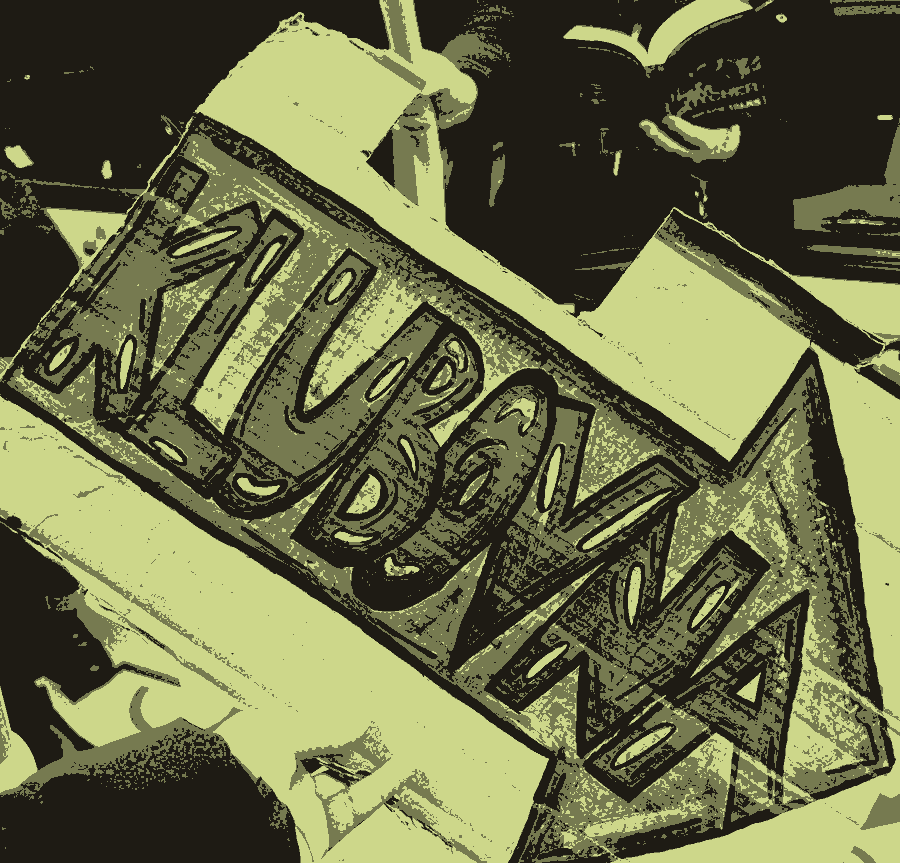
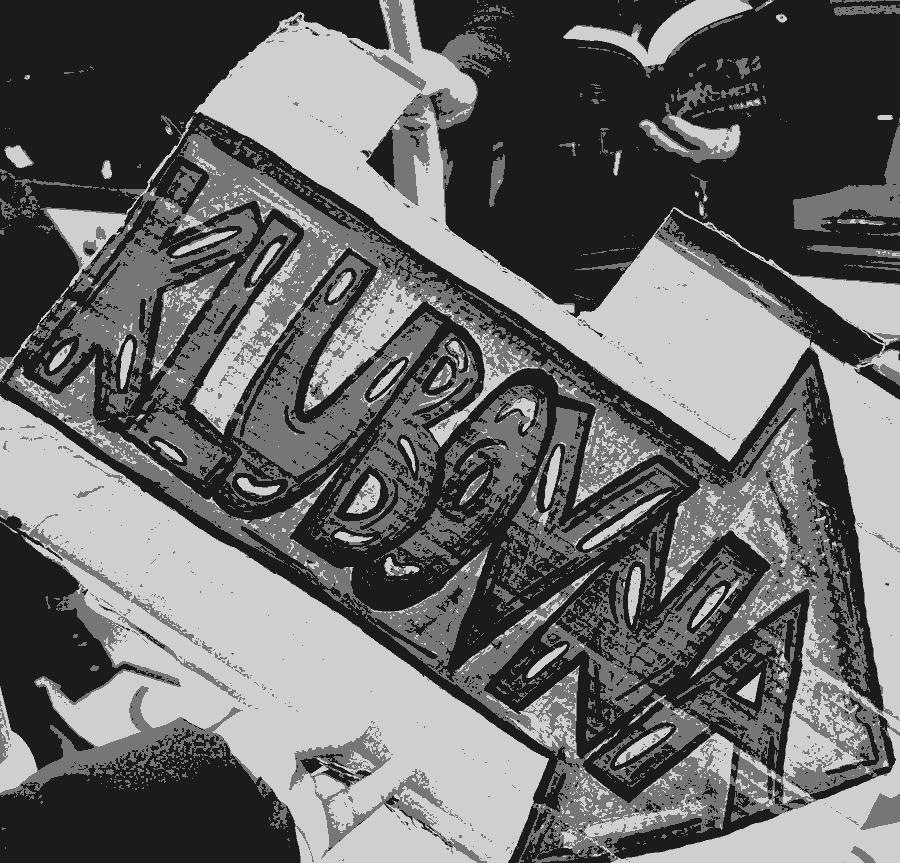
Take the colour out of the page
Decided after the friends round: black and white, so the colour that
arrives belongs to the people and the work. Every actor is being given a
colour of their own and the production photographs are being shot in
colour for end of September; a saturated green ground with a cherry
accent would have been competing with fifteen hues nobody controls.

--lime, --olive, --brick and --brick-deep give way to --ground and
--ground-deep, and every accent role resolves to --ink. The
two-strength accent split collapses with the red: it existed only
because the full cherry was 3.4:1 on lime and needed darkening to carry
text, and ink needs no such favour. The .o-nas heading override and the
note that worked out how dark the wash could go both go with it.

Three things the token swap alone would have left broken: an ink button
on the ink band is invisible, so the three reel buttons invert there;
the nav overlay's hover and focus were a colour change, and become an
underline plus a white ring; and the nine placeholder panels were
duotoned to the green, so they carried the one colour this removes -
desaturated. The two real portraits are hers rather than our duotone
and are untouched, because under this direction real photographs keep
their colour.

The drawn KP mark comes through in ink. The file is unchanged and
currentColor is what tints it, but it is her artwork, so whether it
keeps its red is her call.

diff --git a/src/styles/global.css b/src/styles/global.css
@@ -37,44 +37,35 @@
 /* ---------------------------------------------------------------------------
    One visual system for the whole site, so it lives in one file.
 
-   Palette is the Lime Sherbet / Barbados Cherry pair, off the reference the
-   client sent (2026-09-06):
+   Palette is black and white, decided 2026-09-07 after the round with his
+   friends ("friends call ... make page black and white"). It replaces the
+   Lime Sherbet / Barbados Cherry pair the client sent on 2026-09-06, which
+   replaced a palette sampled off her logo in August.
 
-     Lime Sherbet    #CDD78A  -> the wash's highlight, not a token
-     Barbados Cherry #AA0A27  -> --brick
+   The reason is not taste, it is what is arriving. Every actor is being given
+   a colour of their own and the production photographs are being shot in
+   colour, delivery end of September 2026. A page holding a saturated green
+   ground and a cherry accent would have been competing with fifteen hues it
+   does not control; a page holding none leaves the whole colour budget to the
+   people and the work. Colour on this site now means: a photograph, a poster,
+   or a person.
 
-   The sherbet is the top of the wash rather than its base: the plaster
-   darkens away from it instead of blooming toward white (2026-09-06, "z te
-   zelene jit spis do tmava nez do bila"). So the tone that gets a token is
-   the floor the ramp descends to, --lime, because that is the worst ground
-   any ink on the wash ever has to survive - the sherbet itself never needs
-   defending. How dark that floor can go is not a matter of taste: see the
-   page-heading note below, which is what caps it.
+   So there is one ink and one paper. --ink paints every filled surface - the
+   mark, the buttons, the burger, the nav overlay, the card and ticket frames -
+   and white on it reads 15.9:1. --ground is that same paper.
 
-   This replaces the palette sampled off her logo in August. It is a shift
-   inside the same two families rather than a break with the mark - the green
-   goes yellower and quieter, the red goes deeper and cooler - so the drawn
-   KP still sits on the page as her own artwork. If she wants the mark itself
-   restated in the new red, that is her call, not ours.
+   The two-strength accent is gone with the red. --brick and --brick-deep
+   existed because the full cherry was 3.4:1 on lime and needed darkening to
+   carry text; ink needs no such favour, so --accent is simply --ink and every
+   printed surface takes the same one. The dark bands still flip it to white,
+   which is the only override left.
 
-   --brick is the cherry exactly, unaltered. It paints every filled surface:
-   the mark, the buttons, the burger, the nav overlay, the card and ticket
-   frames. White on it reads 7.5:1, better headroom than the old red gave.
+   The drawn KP mark comes through in ink rather than her red. That is a
+   change to her own artwork's presentation, not to the artwork - the file is
+   unchanged and currentColor is what tints it. If she wants the mark to keep
+   its red on a black-and-white page, that is her call, not ours.
 
-   --brick-deep is the same cherry darkened for one job: red as *text* sitting
-   on the green wash. The full cherry is 3.4:1 on lime and 2.7:1 on olive,
-   both under the 4.5:1 body floor, so links and eyebrows on the wash take
-   the darkened one: 4.8:1 on lime. On olive it reaches 3.8:1, which carries
-   large type but not body copy - there is no small red on the olive band
-   today, and check.mjs is what would catch one being added.
-
-   Still one ink at two lightnesses, split by the ground it is printed on
-   rather than by taste. On paper - every printed block is white - --accent is
-   the full --brick. Directly on the green wash it drops to --brick-deep. Text
-   never names either one, so a new link inherits the readable answer without
-   having to know the split exists.
-
-   White never sits on lime or olive; those grounds take ink.
+   White never sits on the paper; that ground takes ink.
    scripts/check.mjs enforces the contrast on every page, at 320px and 390px.
 
    Deliberately single-theme: printed poster, paper, no dark mode.
@@ -82,11 +73,21 @@
 :root {
   color-scheme: only light;
 
-  --white: #FFFFFF;       /* the paper, and the ink the dark bands are read in */
-  --lime:  #A8B56B;       /* the floor the plaster darkens to, under the sherbet */
-  --olive: #93A05C;       /* the same green, deeper, for the bands that break the wash */
-  --brick: #AA0A27;       /* Barbados Cherry, as given - every filled surface */
-  --brick-deep: #80071D;  /* the same cherry, dark enough to be read on the wash */
+  --white: #FFFFFF;       /* the paper: the ground, the cards, the bar, and the ink the dark bands are read in */
+
+  /* Black and white, decided 2026-09-07 after the friends round. The greens
+     and both cherries are gone, and so is the reason there were two of them:
+     the split existed because red needed one strength on the green wash and a
+     darker one on white. With a single dark at 15.9:1 on the paper there is
+     nothing left to split, which is why --accent, --button-bg and
+     --ticket-frame all resolve to the same --ink below instead of choosing
+     between shades.
+
+     The page carries no colour of its own on purpose. Every actor gets one
+     and the production photographs arrive in colour; a ground with none is
+     what lets those be the loudest thing on the screen. */
+  --ground: var(--white);
+  --ground-deep: #E6E6E4;  /* the same paper a shade down: the bands and blanks that break it */
   /* One dark, and it is not black (2026-09-06: "sjednotil bych tmavou barvu
      pokud se nerovna cerna"). Held as channels rather than as a hex so that
      the places needing it at partial alpha - the seams' zero end, the card
@@ -101,7 +102,7 @@
      white of the cards and the bar. The dark bands below flip it to white. One token
      instead of a hand-kept list of selectors per surface - a new card
      inherits the right answer rather than needing one. */
-  --accent: var(--brick-deep);
+  --accent: var(--ink);
 
   /* What follows is the client's picks off the variant board (2026-09-01),
      written in as the only values the file has: white paper for the termíny
@@ -121,7 +122,7 @@
 
   --paper: var(--white);
   --masthead-bg: var(--white);  /* the bar */
-  --button-bg: var(--brick);    /* the CTA and the burger */
+  --button-bg: var(--ink);    /* the CTA and the burger */
   --button-text: var(--white);
 
   /* Paper stays white; the frame is cherry (2026-09-06: "karta predstaveni
@@ -131,7 +132,7 @@
      cards, which have been red-framed since the client asked for it on
      2026-08-31. */
   --ticket-paper: var(--white);
-  --ticket-frame: var(--brick);
+  --ticket-frame: var(--ink);
 
   /* The typewriter face the client picked 2026-08-19. Fallbacks are
      metric-neighbours, not lookalikes: a monospace stack keeps the
@@ -176,7 +177,7 @@
    anchor has settled. */
 html { scroll-padding-top: 4.5rem; }
 
-/* The ground: flat --lime, nothing over it.
+/* The ground: flat --ground, nothing over it.
 
    It carried a generated wall and a tooth of grain until 2026-09-07 ("pro ted
    bych ho zahodil uplne, vratme se k ciste zelene"). Both assets and the
@@ -184,14 +185,14 @@ html { scroll-padding-top: 4.5rem; }
    ever wanted back.
 
    Flat is also the honest case for contrast. Every ratio measured on this site
-   assumes --lime underneath, and now that is literally what is painted rather
-   than the darkest tone a texture happened to reach.
+   assumes --ground underneath, and now that is literally what is painted
+   rather than the darkest tone a texture happened to reach.
 
    Still on body, so it propagates to the canvas and covers a document of any
    length. */
 body {
   margin: 0;
-  background: var(--lime);
+  background: var(--ground);
   color: var(--ink);
   font-family: var(--body);
   font-size: clamp(1rem, 0.95rem + 0.3vw, 1.125rem);
@@ -201,18 +202,12 @@ body {
 
 img { max-width: 100%; height: auto; }
 
-/* The printed blocks, which have their own paper under them: the logo's red
-   is readable at full strength there (5.7:1 on their white), so they take
-   --brick rather than the darkened one. Without this a ticket's frame and its title, three pixels apart, would
-   be two different reds - which is the whole thing the split is meant to
-   avoid. Only red printed straight onto the green wash keeps --brick-deep. */
-.ticket,
-.production-card,
-.press {
-  --accent: var(--brick);
-}
+/* The per-surface accent split is gone with the second cherry: one dark reads
+   on every light surface here, so a ticket's frame and its title three pixels
+   apart cannot disagree any more. Only the dark bands still need an override,
+   below. */
 
-/* The dark bands. Brick is 1.6:1 on ink, so anything reading --accent inside
+/* The dark bands. Ink on ink is invisible, so anything reading --accent inside
    them has to get white instead; the generic contrast assertion in
    scripts/check.mjs fails the build if a new dark surface skips this. */
 .footer,
@@ -264,7 +259,7 @@ img { max-width: 100%; height: auto; }
      is a graphic, not text, so it answers to 3:1 rather than 4.5:1, and the
      cherry is 7.5:1 on this white. */
   background: var(--masthead-bg);
-  border-bottom: 3px solid var(--brick);
+  border-bottom: 3px solid var(--ink);
   transition: height 0.2s ease;
 }
 
@@ -274,19 +269,13 @@ img { max-width: 100%; height: auto; }
    state, so condensing cannot move it. */
 .masthead-space { height: var(--masthead-height); }
 
-/* The red sits on the mark, not on the link. It used to sit on the link and
-   reach the mark through inheritance, which was harmless while the bar was
-   white and became a lie when it went green: the link's colour is what the
-   contrast harness measures the name against, and it was reporting the red -
-   3.4:1 - for a line of text that is painted in ink and always was. The mark
-   is a graphic and answers to 3:1, which the red clears; the name is text and
-   answers to 4.5:1, which the ink clears at 7.8:1. Two jobs, two
-   declarations. Inside the dark bands the same file comes through white. */
+/* The mark and the name are one colour again. They were split while the mark
+   was red and the name ink: the link's colour is what the contrast harness
+   measures the name against, so a red on the link reported 3.4:1 for a line
+   of text that was painted in ink. With one ink there is nothing to split,
+   and the svg takes it through currentColor like everything else. Inside the
+   dark bands the same file comes through white. */
 .masthead__home { display: flex; align-items: center; gap: 0.6rem; text-decoration: none; color: var(--ink); }
-
-/* currentColor inside the file resolves against the svg, so this is what
-   paints the mark. */
-.masthead__home svg { color: var(--brick); }
 
 /* Bigger than the first draft at the client's request (2026-08-18), but
    fluid: Rye is a much wider face than the serif it replaced, and at a
@@ -448,7 +437,7 @@ img { max-width: 100%; height: auto; }
   }
 
   .burger__bars {
-    --bar: color-mix(in srgb, var(--button-text), var(--brick) calc(100% * var(--burger-chrome)));
+    --bar: color-mix(in srgb, var(--button-text), var(--ink) calc(100% * var(--burger-chrome)));
     background:
       linear-gradient(var(--bar) 0 0) 0 0 / 100% 3px no-repeat,
       linear-gradient(var(--bar) 0 0) 0 50% / 100% 3px no-repeat,
@@ -496,7 +485,7 @@ img { max-width: 100%; height: auto; }
 
 .nav[data-open] {
   visibility: visible;
-  background-color: var(--brick);
+  background-color: var(--ink);
   transition: background-color 260ms ease, visibility 0s;
 }
 
@@ -581,8 +570,17 @@ img { max-width: 100%; height: auto; }
   text-decoration: none;
 }
 
-.nav__link:hover,
-.nav__link:focus-visible { color: var(--lime); }
+/* This used to turn the link lime. On a black-and-white overlay there is no
+   second colour to turn it, so the affordance becomes an underline - and
+   keyboard focus gets a ring as well, because an underline alone is easy to
+   miss on a link that is already 4.5rem tall. */
+.nav__link:hover { text-decoration: underline; text-underline-offset: 0.15em; }
+.nav__link:focus-visible {
+  text-decoration: underline;
+  text-underline-offset: 0.15em;
+  outline: 3px solid var(--white);
+  outline-offset: 6px;
+}
 
 .nav__link[aria-current="page"] { text-decoration: underline; text-underline-offset: 0.15em; }
 
@@ -600,24 +598,14 @@ img { max-width: 100%; height: auto; }
      the arithmetic. */
   font-size: clamp(1.9rem, 9vw, 4rem);
   overflow-wrap: break-word;
-  /* The one red on the wash that takes --brick rather than --accent. It can:
-     30px at its floor is WCAG large text, which answers to 3:1 rather than
-     4.5:1, and the full red holds 3.41:1 against the darkest tone the wash
-     reaches. That margin is what caps how dark --lime may go: at #9EAC64 the
-     full red is 3.07:1 and at #9AA85C it is 2.92:1 and fails. Taking the
-     wash deeper than this means this heading gives up matching the mark and
-     falls back to --accent, the way .o-nas already does. It is also the biggest red on the page, so it is the one that
-     has to agree with the mark above it. Any smaller red on the wash - .link,
-     a subtitle span - keeps --accent and stays darkened, and so does this
-     heading on any ground darker than the wash (see .o-nas below). */
-  color: var(--brick);
+  /* Ink, like every other heading. The note that stood here worked out how
+     dark the green wash could go before the full cherry stopped clearing 3:1
+     under this heading - it was the thing that capped the palette. Black and
+     white removes the cap: ink is 15.9:1 on the paper and 3:1 was never in
+     question. The .o-nas override that took the darkened red back on the
+     olive band went with it, for the same reason. */
+  color: var(--ink);
 }
-
-/* The one page that paints its own olive band instead of letting the wash
-   through. Olive is dark enough that the full red falls to 2.67:1 there, so
-   the heading gives up the match and takes the darkened red back - 3.78:1,
-   which is what large type owes. */
-.o-nas .page-heading { color: var(--accent); }
 
 .prose { max-width: var(--measure); }
 .prose p { margin: 0 0 1em; text-wrap: pretty; }
@@ -763,7 +751,7 @@ img { max-width: 100%; height: auto; }
 .ticket__poster-blank { display: block; width: 100%; border: 3px solid var(--ink); border-radius: 0; }
 
 /* Poster proportions, so the slot is the shape a poster will be. */
-.ticket__poster-blank { aspect-ratio: 2 / 3; background: var(--olive); }
+.ticket__poster-blank { aspect-ratio: 2 / 3; background: var(--ground-deep); }
 
 /* Long production names have to wrap inside the remaining column. */
 .ticket__body { min-width: 0; }
@@ -824,7 +812,7 @@ img { max-width: 100%; height: auto; }
    brick border, and without it the two reds meet and read as one blob. */
 .ticket__tag {
   padding: 0.22rem 0.6rem;
-  background: var(--brick);
+  background: var(--ink);
   color: var(--white);
   border-radius: 999px;
   font-size: 0.7rem;
